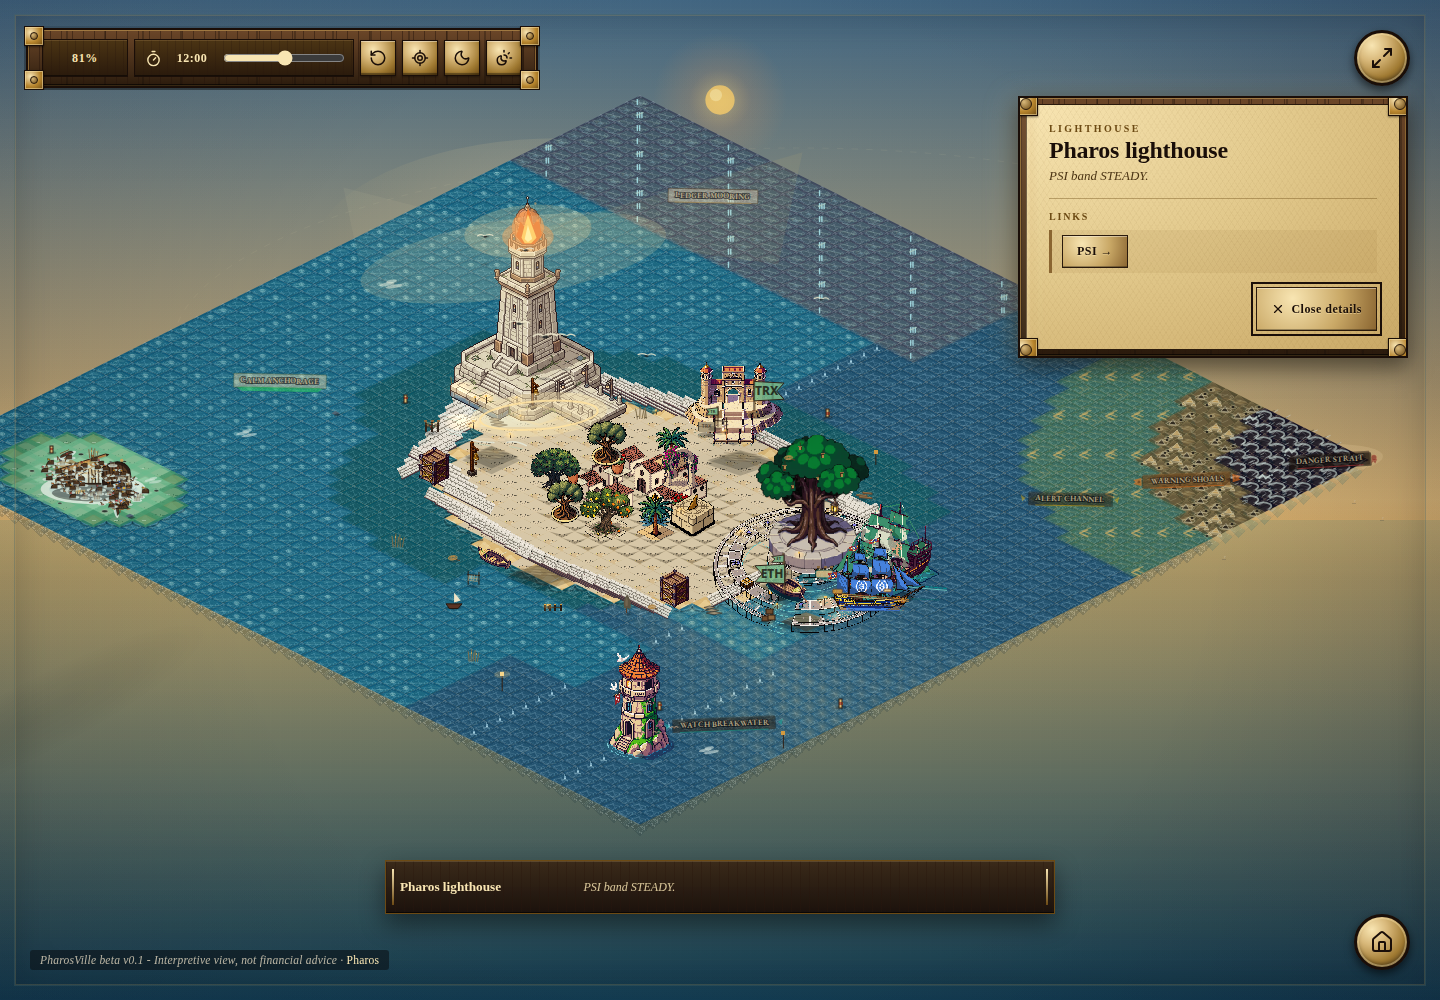
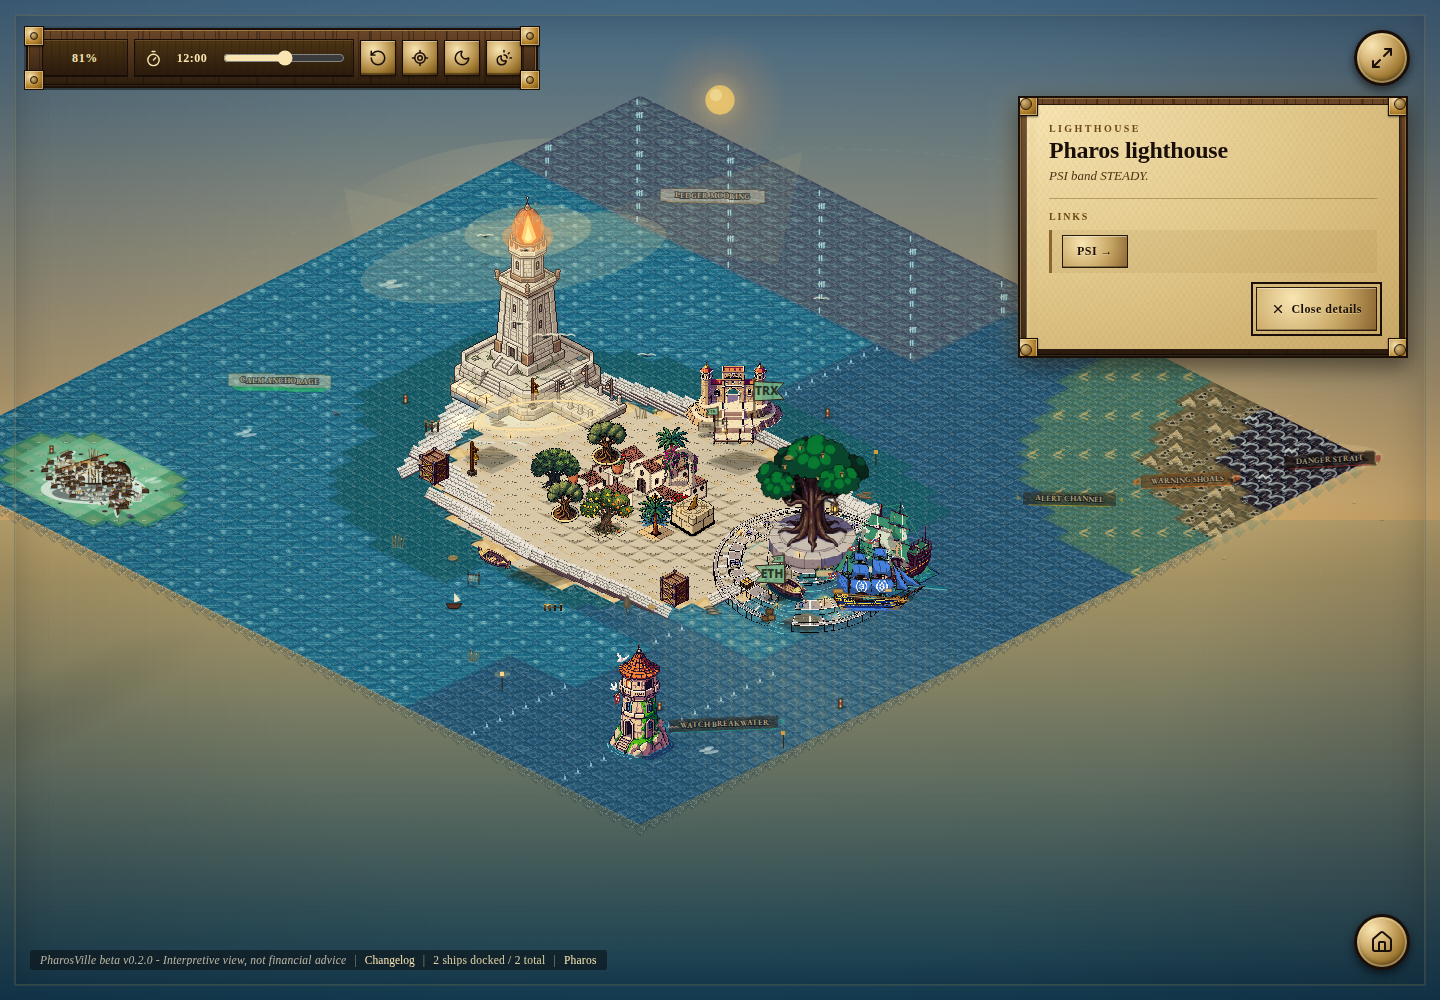
Retire redundant selection strip caption
The lower-thirds caption strip from W2.17 duplicated the detail panel
already shown on selection. Drop the strip + companion CSS; tests now
assert the detail-panel summary is the canonical selection surface.

Changed region(s): [[0.25, 0.837, 0.75, 0.992]]

diff --git a/src/pharosville.css b/src/pharosville.css
@@ -407,63 +407,6 @@ textarea {
 }
 .pharosville-detail-dock > * { pointer-events: auto; }
 
-.pharosville-selection-strip {
-  position: absolute;
-  left: 50%;
-  bottom: 86px;
-  z-index: 6;
-  display: grid;
-  grid-template-columns: minmax(8ch, 0.38fr) minmax(0, 1fr);
-  align-items: center;
-  gap: 10px;
-  width: min(640px, max(280px, calc(100% - 440px)));
-  min-height: 38px;
-  padding: 7px 14px;
-  transform: translateX(-50%);
-  border: 1.5px solid var(--pv-brass-edge);
-  background:
-    repeating-linear-gradient(90deg, rgba(40, 22, 12, 0.34) 0 1px, transparent 1px 9px),
-    linear-gradient(180deg, rgba(58, 38, 20, 0.92), rgba(26, 14, 8, 0.94));
-  color: var(--pv-parchment-light);
-  font-family: Georgia, "Times New Roman", serif;
-  box-shadow:
-    inset 0 1px 0 rgba(255, 210, 140, 0.18),
-    inset 0 -1px 0 rgba(0, 0, 0, 0.62),
-    0 10px 24px rgba(0, 0, 0, 0.45);
-  pointer-events: none;
-}
-.pharosville-selection-strip::before,
-.pharosville-selection-strip::after {
-  content: "";
-  position: absolute;
-  top: 8px;
-  bottom: 8px;
-  width: 2px;
-  background: linear-gradient(180deg, var(--pv-brass-highlight), var(--pv-brass-edge));
-}
-.pharosville-selection-strip::before { left: 6px; }
-.pharosville-selection-strip::after { right: 6px; }
-.pharosville-selection-strip strong {
-  min-width: 0;
-  color: var(--pv-brass-highlight);
-  font-size: 0.83rem;
-  font-weight: 900;
-  line-height: 1.1;
-  overflow: hidden;
-  text-overflow: ellipsis;
-  white-space: nowrap;
-}
-.pharosville-selection-strip span {
-  min-width: 0;
-  color: rgba(248, 229, 178, 0.84);
-  font-size: 0.75rem;
-  font-style: italic;
-  line-height: 1.2;
-  overflow: hidden;
-  text-overflow: ellipsis;
-  white-space: nowrap;
-}
-
 /* Outer aside: timber frame + brass corner caps via absolute spans */
 .pharosville-detail-panel {
   position: relative;

diff --git a/src/pharosville-world.tsx b/src/pharosville-world.tsx
@@ -436,18 +436,6 @@ function PharosVilleWorldInner({ world }: { world: PharosVilleWorldModel }) {
             <DetailPanel detail={selectedDetail} onClose={clearSelection} />
           </div>
         )}
-        {selectedDetail && (
-          <aside
-            className="pharosville-selection-strip"
-            data-testid="pharosville-selection-strip"
-            role="status"
-            aria-live="polite"
-            aria-atomic="true"
-          >
-            <strong>{selectedDetail.title}</strong>
-            <span>{selectedDetail.summary}</span>
-          </aside>
-        )}
       </div>
       <button
         type="button"

diff --git a/src/pharosville-world.test.tsx b/src/pharosville-world.test.tsx
@@ -167,9 +167,9 @@ describe("PharosVilleWorld UI accessibility controls", () => {
 
     fireEvent.keyDown(shell, { key: "Enter" });
     await waitFor(() => {
-      expect(screen.getByTestId("pharosville-selection-strip").textContent).toContain("Ethereum Dock");
+      expect(screen.getByTestId("pharosville-detail-panel").textContent).toContain("Ethereum Dock");
     });
-    expect(screen.getByTestId("pharosville-selection-strip").textContent).toContain("Ethereum chain harbor summary.");
+    expect(screen.queryByTestId("pharosville-selection-strip")).toBeNull();
   });
 
   it("cycles backward with Shift Tab and keeps Escape delegated to existing canvas shortcuts", () => {
@@ -183,10 +183,10 @@ describe("PharosVilleWorld UI accessibility controls", () => {
     expect(mocks.canvasHandleKeyDown).toHaveBeenCalled();
   });
 
-  it("auto-hides the lower-third caption when selection is cleared", () => {
+  it("does not render the lower-third caption while details are selected", () => {
     render(<PharosVilleWorld world={worldFixture()} />);
 
-    expect(screen.getByTestId("pharosville-selection-strip").textContent).toContain("Pharos Lighthouse");
+    expect(screen.queryByTestId("pharosville-selection-strip")).toBeNull();
     fireEvent.click(screen.getByLabelText("Close details"));
     expect(screen.queryByTestId("pharosville-selection-strip")).toBeNull();
   });